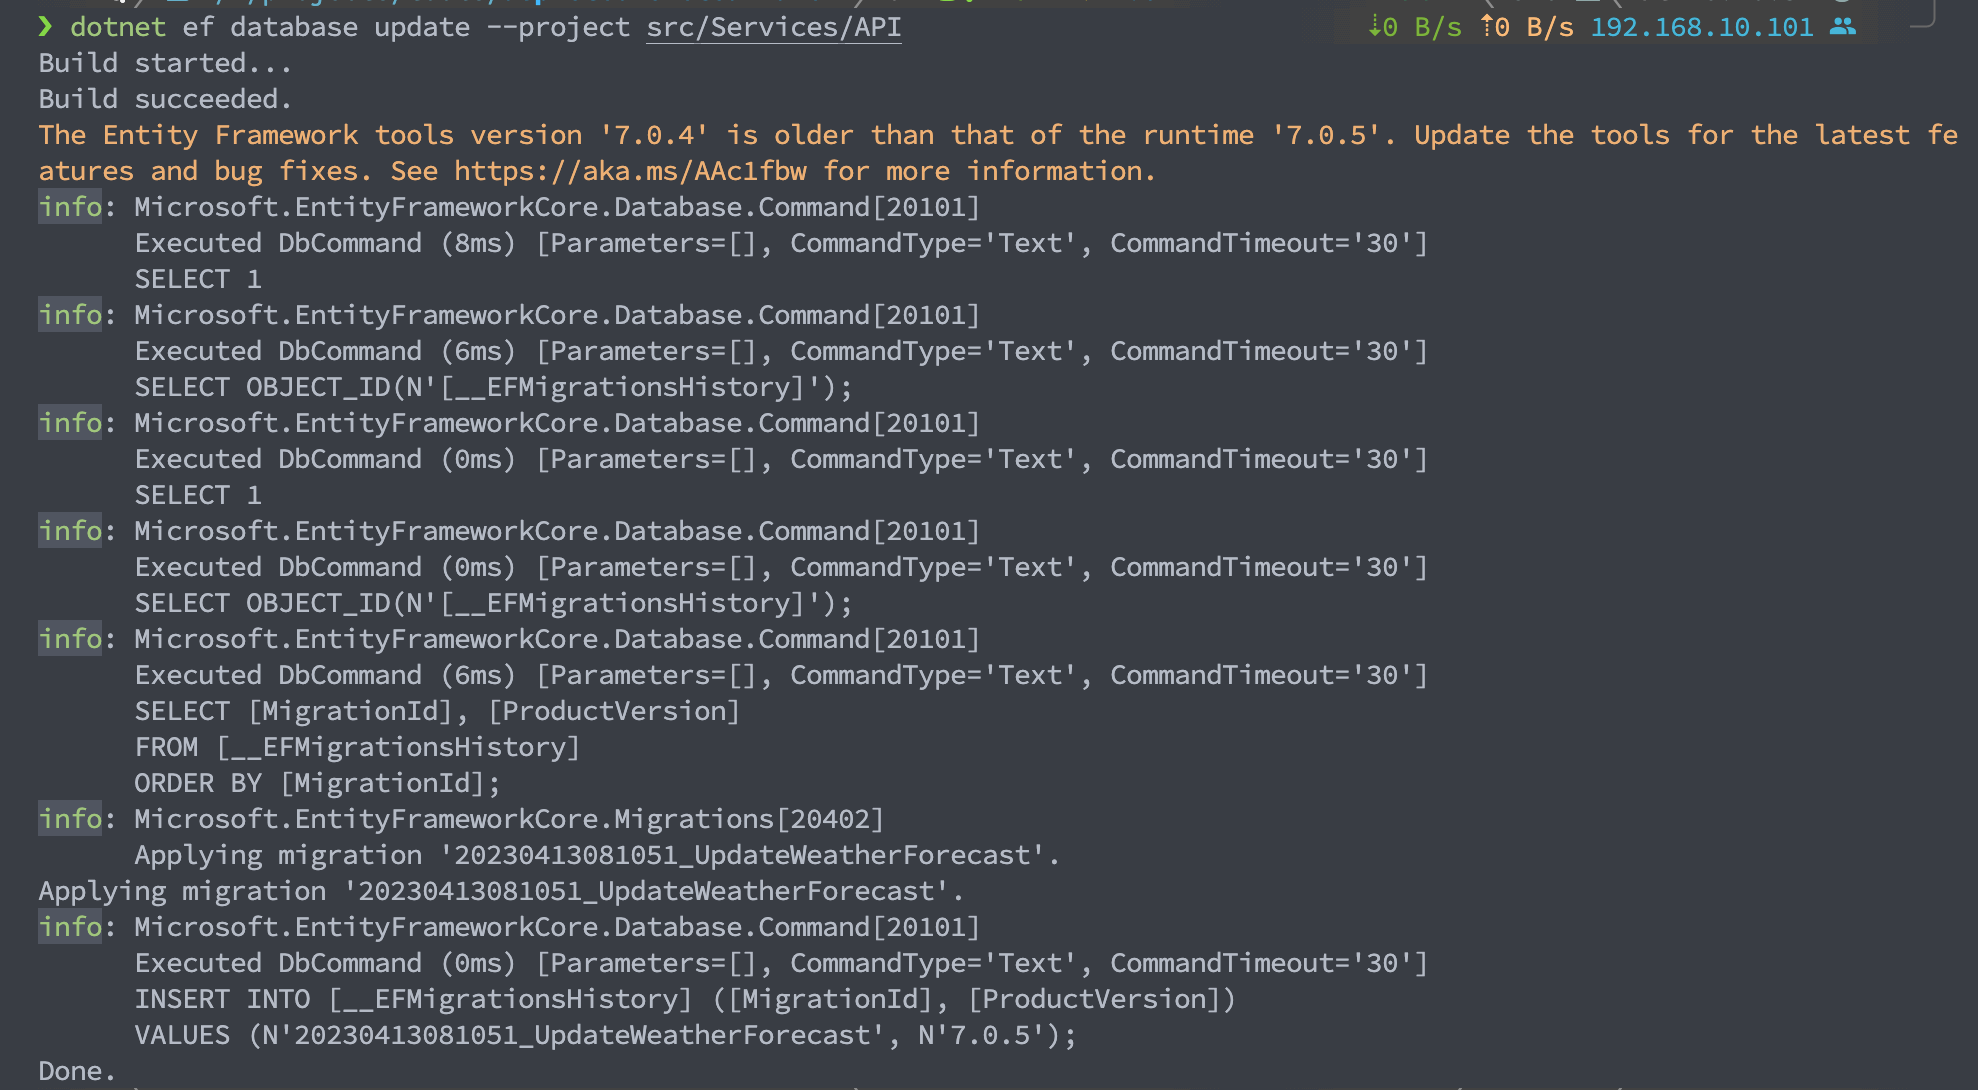
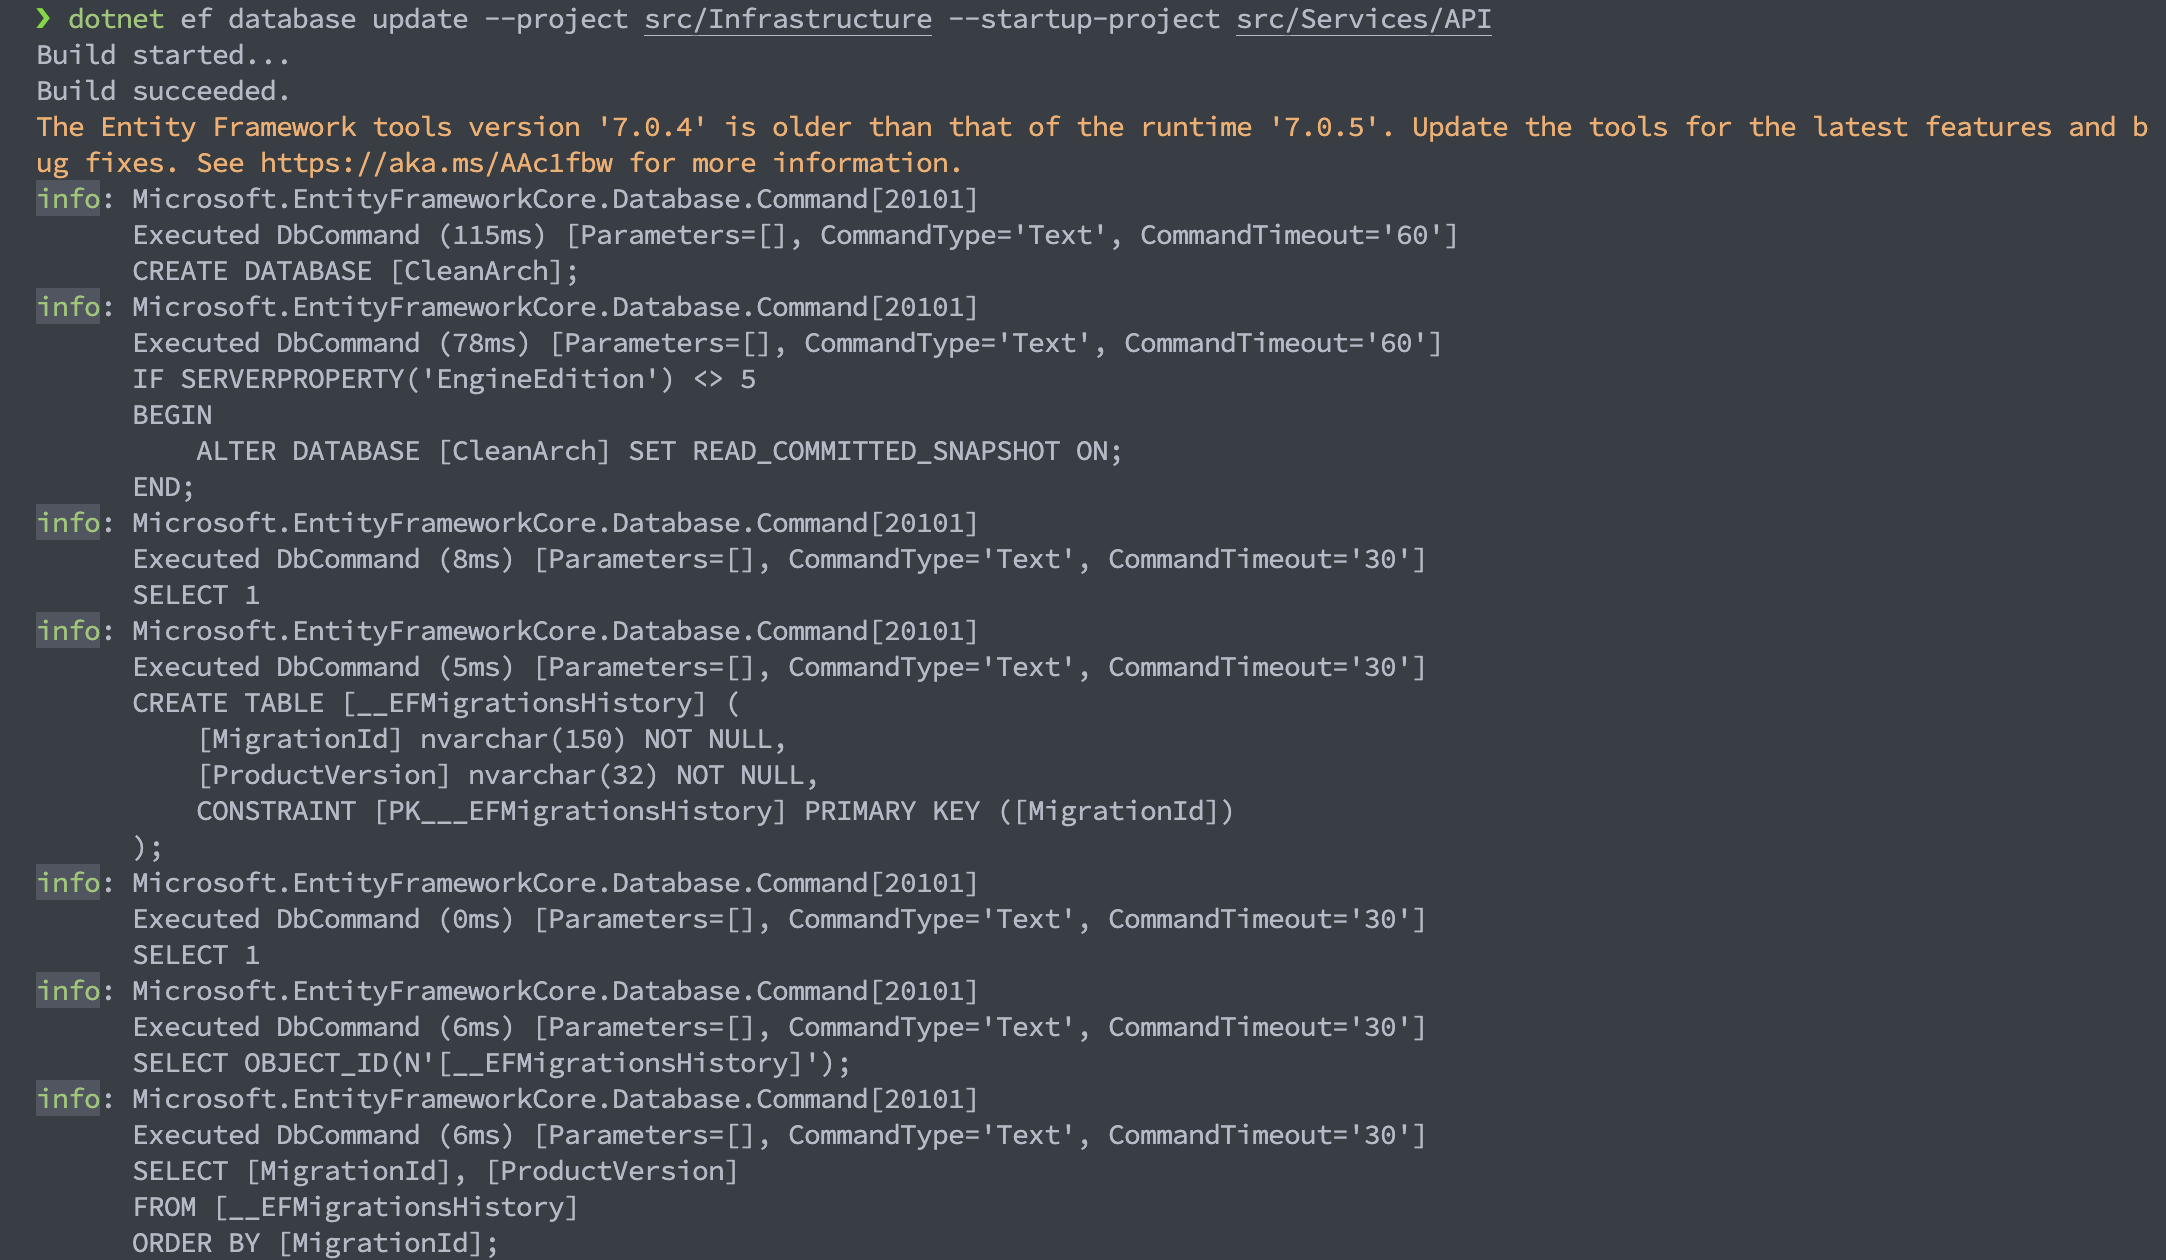
[docs] ef migration 從Services/API 改為Infrastucture

Changed region(s): [[0.0, 0.0, 1.0, 0.9982], [0.5243, 0.811, 0.6476, 0.8422]]

diff --git a/docs/developments/dotnet-ef.md b/docs/developments/dotnet-ef.md
@@ -4,7 +4,7 @@ EFCore dotnet ef 使用方式
 ## `dotnet ef database`
 
 ### 更新Database `dotnet ef database update`
-當`dotnet ef migrations add` 有異動時，可以使用`dotnet ef database update --project src/Services/API` 去更新database。
+當`dotnet ef migrations add` 有異動時，可以使用`dotnet ef database update --project src/Infrastructure --startup-project src/Services/API` 去更新database。
 
 ![](../../assets/images/dotnet%20ef%20database%20update.png)
 ---
@@ -13,6 +13,6 @@ EFCore dotnet ef 使用方式
 
 ### 異動 EFCore Configurations 產生migration
 
-當異動`src/Infrastructure/EFCore/Configurations`時，可以使用`dotnet ef migrations --project src/Services/API` 產生migration 資訊。
+當異動`src/Infrastructure/EFCore/Configurations`時，可以使用`dotnet ef migrations --project src/Infrastructure --startup-project src/Services/API --output-dir Persistence/EFCore/Migrations` 產生migration 資訊。
 
 ![](../../assets/images/dotnet%20ef%20migrations%20add.png)

diff --git a/README.md b/README.md
@@ -36,16 +36,16 @@ dotnet run src/Services/API
 
 ```sh
 # 
-dotnet ef database update --project src/Services/API
+dotnet ef database update --project src/Infrastructure --startup-project src/Services/API
 
 # 初次使用 或是 有異動context 跑migration
-dotnet ef migrations add InitialCreate --project src/Services/API
+dotnet ef migrations add InitialCreate --project src/Infrastructure --startup-project src/Services/API --output-dir Persistence/EFCore/Migrations
 
 # update database
-dotnet ef database update --project src/Services/API
+dotnet ef database update --project src/Infrastructure --startup-project src/Services/API
 
 # drop database
-dotnet ef database drop --project src/Services/API
+dotnet ef database drop --project src/Infrastructure --startup-project src/Services/API
 ```
 > Entity Framework Core 使用`UseInMemoryDatabase` 無法使用`dotnet ef`
 
